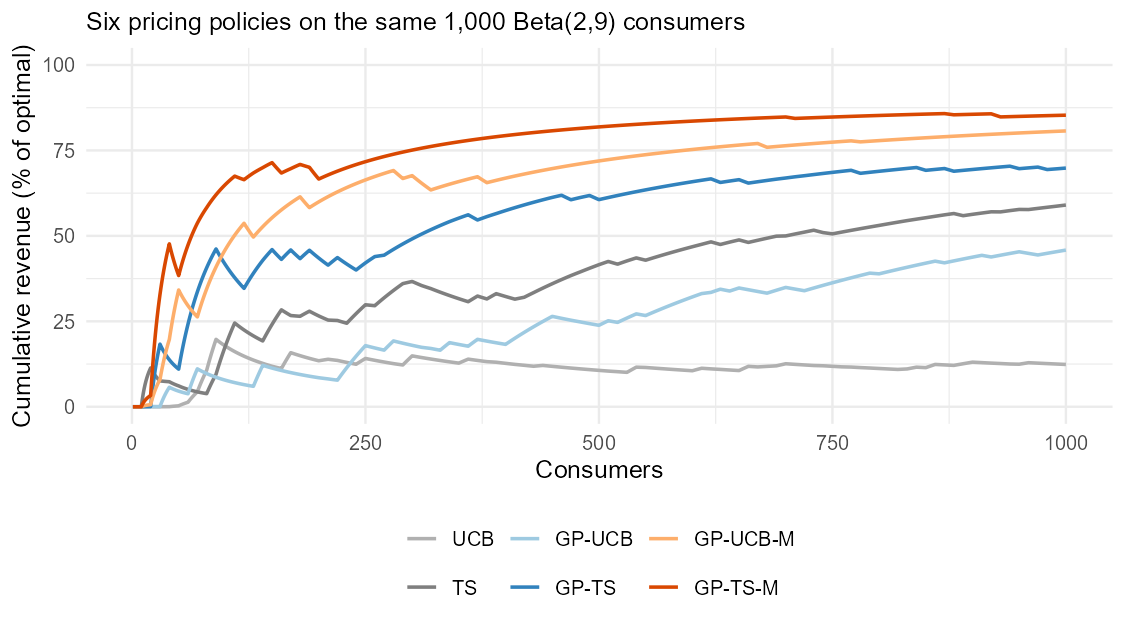
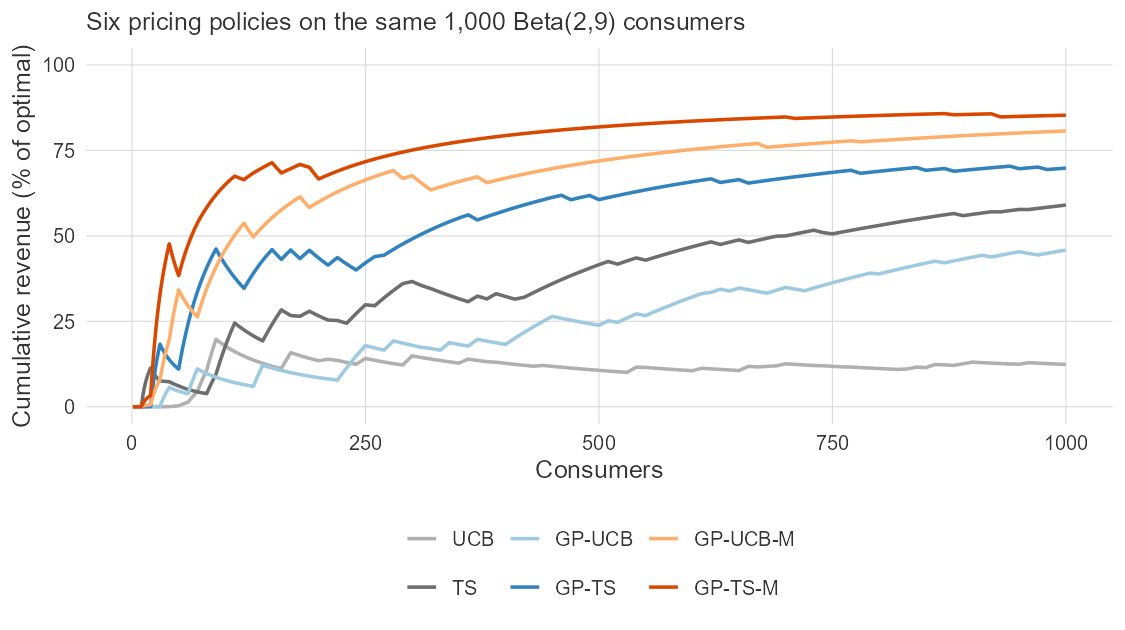
README figure: solid backgrounds, dark-mode variant, thinner grid
Serves a light or dark version automatically via GitHub's picture element;
previous PNG had a transparent background that was unreadable in dark mode.

diff --git a/README.md b/README.md
@@ -75,7 +75,10 @@ grid). Each informational externality helps: tying prices together through a
 Gaussian-process demand curve lifts the independent-arm baselines, and adding
 the monotonicity constraint lifts the GP policies again.
 
-![Cumulative revenue as a percentage of the optimal price's revenue, for all six policies on the same 1,000 simulated consumers](man/figures/README-comparison.png)
+<picture>
+  <source media="(prefers-color-scheme: dark)" srcset="man/figures/README-comparison-dark.png">
+  <img alt="Cumulative revenue as a percentage of the optimal price's revenue, for all six policies on the same 1,000 simulated consumers" src="man/figures/README-comparison.png">
+</picture>
 
 See the [package vignette](https://CRAN.R-project.org/package=PricingBandits)
 for the full walk-through this figure comes from, including the
